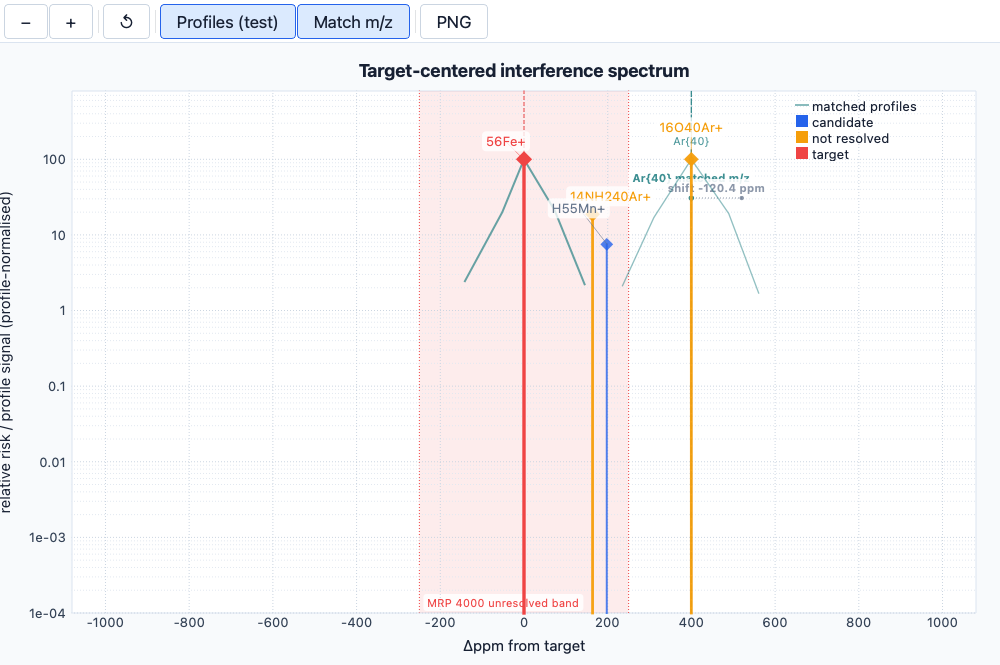
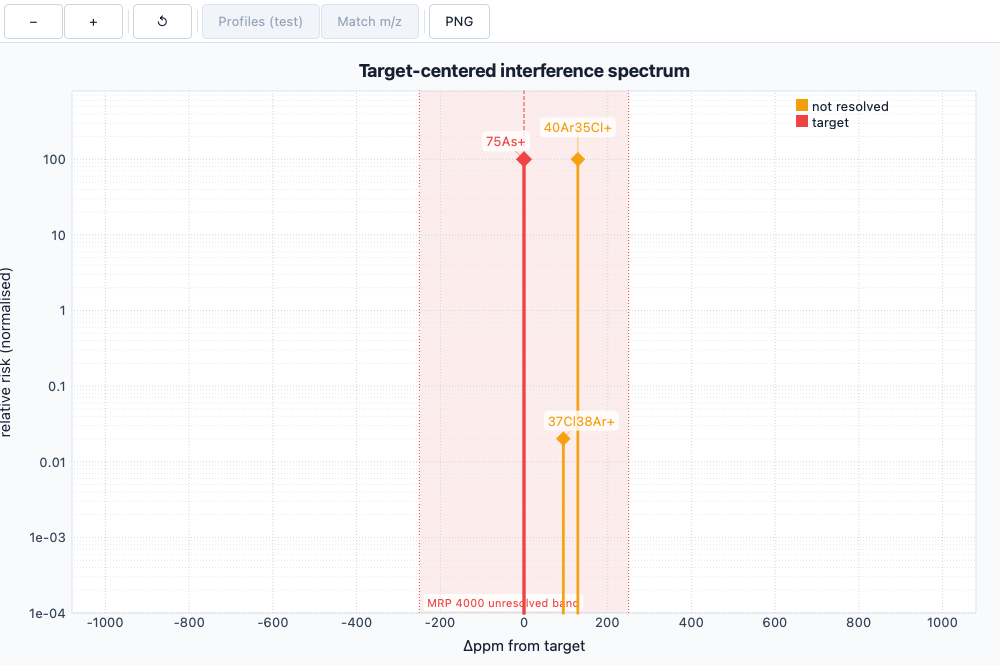
Refresh README screenshots

diff --git a/interference_calculator/ui.py b/interference_calculator/ui.py
@@ -156,7 +156,7 @@ _COLUMN_DISPLAY = {
 
 _UI_TEXT = {
     'en': {
-        'window_title': 'Inorganic mass interference calculator',
+        'window_title': 'Inorganic MS Interference Calculator',
         'spectrum_window_title': 'Inorganic interference spectrum',
         'spectrum_target_title': 'Target-centered interference spectrum',
         'spectrum_title': 'Inorganic interference spectrum',
@@ -176,7 +176,7 @@ _UI_TEXT = {
         'gdms_profile_match_shift_mz': 'shift {:+.5g} m/z',
         'ppm_from_target': '\u0394ppm from target',
         'mz_from_target': '\u0394m/z from target',
-        'header_title': 'Inorganic mass interference',
+        'header_title': 'Inorganic MS Interference Calculator',
         'header_subtitle': 'Inorganic peak screening',
         'language': 'Language',
         'workflow': 'workflow',
@@ -357,7 +357,7 @@ _UI_TEXT = {
         'gdms_profile_match_shift_mz': '偏移 {:+.5g} m/z',
         'ppm_from_target': '相对目标峰 \u0394ppm',
         'mz_from_target': '相对目标峰 \u0394m/z',
-        'header_title': '无机质谱峰干扰',
+        'header_title': '无机质谱峰干扰计算器',
         'header_subtitle': '无机质谱峰筛查',
         'language': '语言',
         'workflow': '流程',
@@ -2806,6 +2806,7 @@ class MainWidget(widgets.QWidget):
         self.import_gdms_button = widgets.QPushButton(_text(self.language, 'import_gdms'), parent=self)
         self.import_gdms_button.setToolTip(tooltip_text(self.language, 'gdms_import'))
         self.import_gdms_button.setMinimumWidth(72)
+        self.import_gdms_button.setMaximumWidth(110)
         self.imported_target_input = widgets.QComboBox(parent=self)
         self.imported_target_input.addItem(_text(self.language, 'imported_target_placeholder'), None)
         self.imported_target_input.setEnabled(False)
@@ -2892,8 +2893,8 @@ class MainWidget(widgets.QWidget):
 
         self.control_panel = widgets.QFrame(parent=self)
         self.control_panel.setObjectName('controlPanel')
-        self.control_panel.setMinimumWidth(420)
-        self.control_panel.setMaximumWidth(480)
+        self.control_panel.setMinimumWidth(460)
+        self.control_panel.setMaximumWidth(520)
         self.control_panel_layout = widgets.QVBoxLayout()
         self.control_panel_layout.setContentsMargins(0, 0, 0, 0)
         self.control_panel_layout.setSpacing(0)
@@ -3143,7 +3144,7 @@ class MainWidget(widgets.QWidget):
         self.body_splitter.addWidget(self.results_panel)
         self.body_splitter.setStretchFactor(0, 0)
         self.body_splitter.setStretchFactor(1, 1)
-        self.body_splitter.setSizes([420, 940])
+        self.body_splitter.setSizes([480, 880])
 
         self.layout = widgets.QVBoxLayout()
         self.layout.setContentsMargins(0, 0, 0, 0)

diff --git a/README.rst b/README.rst
@@ -253,14 +253,14 @@ template-based inorganic interference generation, CIAAW 2024 / AME2020 isotope
 data, full-width ``ppm`` target windows, an interactive target-centered
 spectrum, and a compact data-dense results table.
 
-.. image:: docs/images/main_zh.png
+.. image:: docs/images/main_en.png
    :align: center
-   :alt: Chinese UI screenshot
+   :alt: English UI screenshot
 
-What Changed In 2.3
+What Changed In 2.4
 -------------------
 
-Version 2.x is a major project iteration. Version 2.3 builds on the 2.1
+Version 2.x is a major project iteration. Version 2.4 builds on the 2.1
 inorganic-MS workflow with milestone upgrades for GDMS Excel profile import,
 target selection, release packaging, and startup experience:
 
@@ -406,7 +406,7 @@ observed profile centroid/apex to the corresponding theoretical isotope
 ``m/z`` and annotates the alignment shift without changing the interference
 calculation.
 
-.. image:: docs/images/spectrum_zh.png
+.. image:: docs/images/spectrum_en.png
    :align: center
    :alt: Target-centered spectrum screenshot
 

diff --git a/CHANGELOG.md b/CHANGELOG.md
@@ -4,11 +4,22 @@
 
 ### English
 
-- No unreleased changes yet.
+#### Changed
+- Refresh README screenshots for the current 2.4 interface, use English
+  screenshots in the English README section, and align the UI header display
+  name with the 2.4 application name.
+- Keep the GDMS import button compact in the target row when no imported target
+  list is visible.
+- Widen the default control panel so English labels and automatic toggles are
+  not clipped in the startup layout.
 
 ### 中文
 
-- 暂无未发布变更。
+#### 变更
+- 刷新 README 截图为当前 2.4 界面，在英文 README 区域使用英文截图，并将
+  UI 页眉显示名同步为 2.4 应用名称。
+- 在尚未显示导入目标峰列表时，保持目标区域的导入按钮紧凑。
+- 加宽默认控制面板，避免英文标签和自动开关在启动布局中被截断。
 
 ## [2.4.2] - 2026-05-31
 
